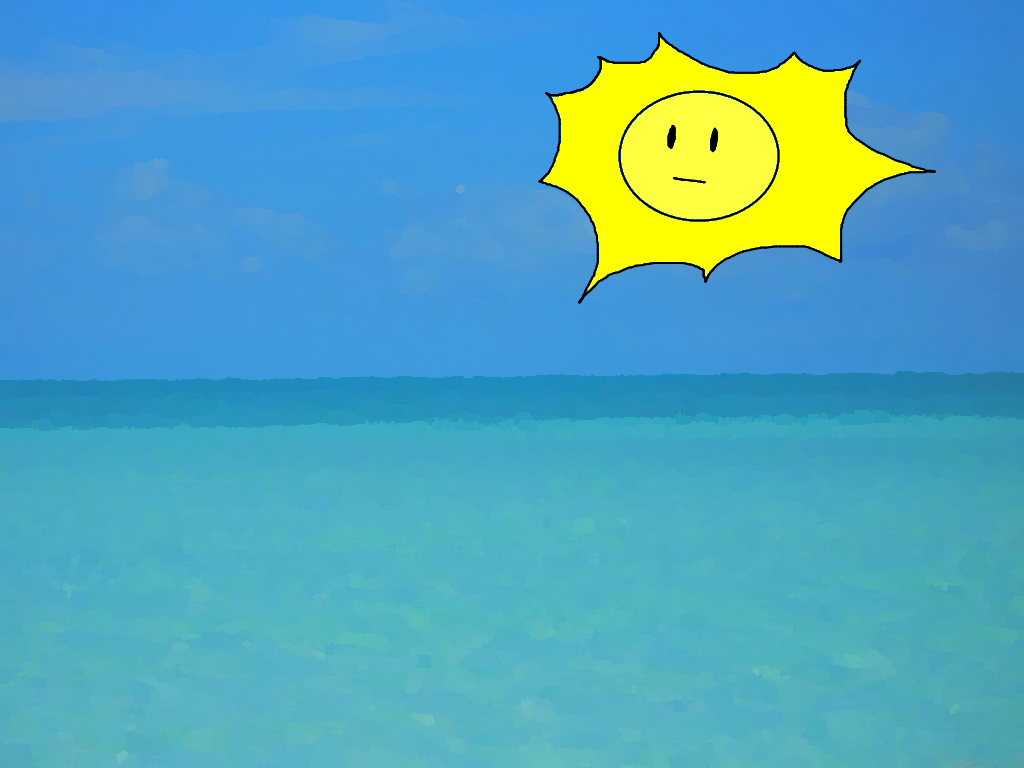
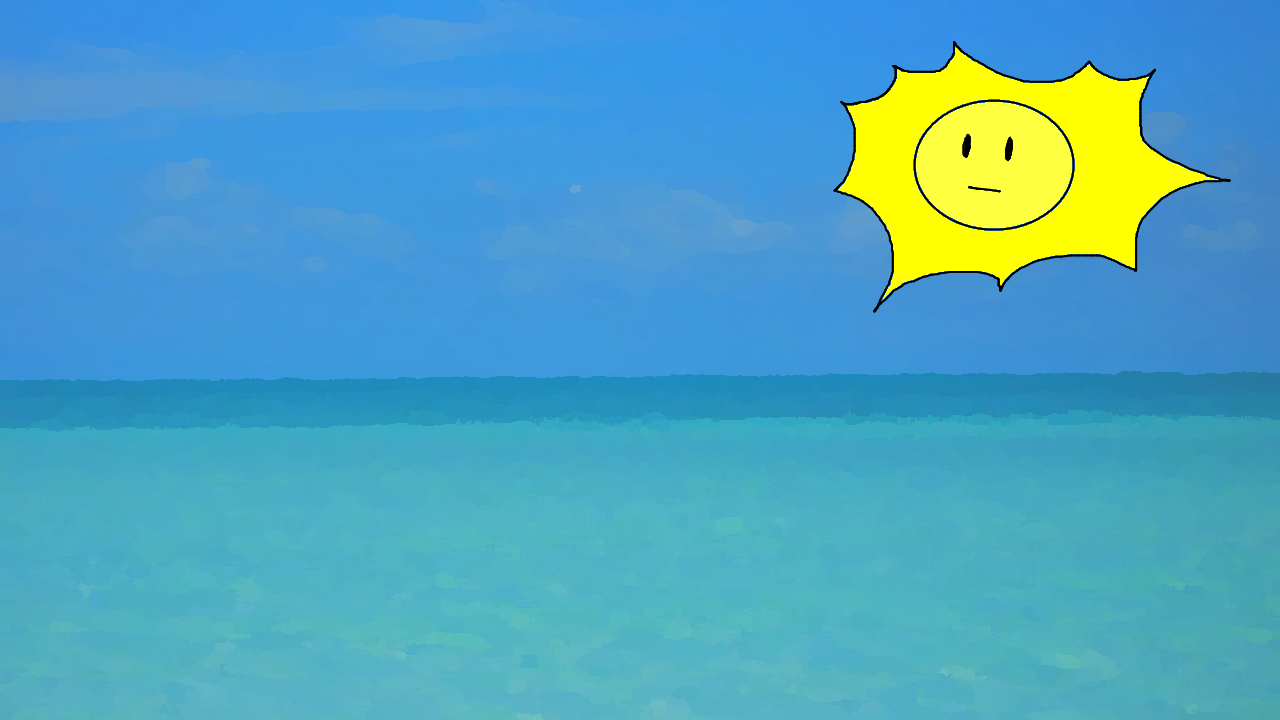
Tweaka guns, revamped graphics to be 1280x720

Changed region(s): [[0.5312, 0.0306, 0.9688, 0.4278], [0.0, 0.4583, 1.0, 0.6111], [0.4375, 0.2444, 0.4688, 0.275]]

diff --git a/Tanks/src/blueMaggot/maps/cityScape.java b/Tanks/src/blueMaggot/maps/cityScape.java
@@ -41,8 +41,6 @@ public class cityScape extends BasicLevel {
 
 		SoundEffect.SPAWN.play();
 
-		addEntity(new BubbleHearth(bubbleSpawns.get(1), this));
-		addEntity(new Package(bubbleSpawns.get(2), this));
 
 	}
 	
@@ -69,6 +67,14 @@ public class cityScape extends BasicLevel {
 		this.addEntity(new ScoreBubble(bubbleSpawns.get(rand.nextInt(bubbleSpawns.size())), this, 0.5, rand.nextInt(360), 100));
 		SoundEffect.SPAWN.play();
 	}
+	public void spawnBubbleHearth() {
+		this.addEntity(new BubbleHearth(bubbleSpawns.get(rand.nextInt(bubbleSpawns.size())), this));
+		SoundEffect.SPAWN.play();
+	}
+	public void spawnCrate() {
+		this.addEntity(new Package(bubbleSpawns.get(rand.nextInt(bubbleSpawns.size())), this));
+		SoundEffect.SPAWN.play();
+	}
 
 	@Override
 	public void tick(double dt) {
@@ -76,17 +82,25 @@ public class cityScape extends BasicLevel {
 		if (shouldSpawnBubble()) {
 			spawnBubble();
 		}
+		if (shouldSpawnCrate()) {
+			spawnCrate();
+		}
+		if (shouldSpawnBubbleHearth()) {
+			spawnBubbleHearth();
+		}
 	}
 
 	protected boolean shouldSpawnBubble() {
-		int ticket = rand.nextInt(200);
+		int ticket = rand.nextInt(300);
 		return ticket == 5;
 	}
 	protected boolean shouldSpawnCrate() {
-		return true;
+		int ticket = rand.nextInt(500);
+		return ticket == 10;
 	}
 	protected boolean shouldSpawnBubbleHearth() {
-		return true;
+		int ticket = rand.nextInt(800);
+		return ticket == 100;
 	}
 	public void onDraw(Renderer renderer) {
 		// draws backgorund recursively

diff --git a/Tanks/src/blueMaggot/Game.java b/Tanks/src/blueMaggot/Game.java
@@ -22,8 +22,8 @@ import blueMaggot.maps.cityScape;
 
 public class Game extends BaseGame implements ConnectionDelegate {
 
-	public static int WIDTH = 1024;
-	public static int HEIGHT = 768;
+	public static int WIDTH = 1280;
+	public static int HEIGHT = 720;
 	public static Dimension DIMENSION = new Dimension(WIDTH, HEIGHT);
 	public boolean didTick = false;
 	public static int ALPHA_MASK = -1;
@@ -44,11 +44,11 @@ public class Game extends BaseGame implements ConnectionDelegate {
 
 	// customizable player variables!
 	public String hostIp;
-	public String nickPlayerOne = "carl";
+	public String nickPlayerOne = "seaman carl";
 	public String nickPlayerTwo = "biker bob";
 	public boolean isHost = false;
 	public static File SELECTED_LEVEL_TERRAIN = new File("./lvl/Cityscape_terrain.png");
-	public static File SELECTED_LEVEL_BACKGROUND = new File("./lvl/Cityscape_background.png");
+	public static File SELECTED_LEVEL_BACKGROUND = new File("./lvl/Cityscape2_background.png");
 	public static boolean running = false;
 
 	// ui elements

diff --git a/Tanks/src/entity/weapon/Minigun.java b/Tanks/src/entity/weapon/Minigun.java
@@ -15,7 +15,7 @@ public class Minigun implements Weapon{
 	int bulletsFired = 0;
 	double currentCooldown = 0;
 	double cooldownTime = 120;
-	int ammo = 5;
+	int ammo = 0;
 	Tank owner;
 	BasicLevel level;
 	Random rand = new Random();
@@ -27,6 +27,7 @@ public class Minigun implements Weapon{
 	public void fire(double x, double y, BasicLevel level, double speedPercent, double angle) {
 		this.level = level; 
 		if (currentCooldown <= 0 && ammo > 0) {
+			ammo--;
 			firing = true;
 			bulletsFired = 0;
 			currentCooldown = cooldownTime;
@@ -50,7 +51,7 @@ public class Minigun implements Weapon{
 	
 	public void fireEvent(){
 		level.addEntity(new Bullet(owner.getCrosshairLocation().getX(), owner.getCrosshairLocation().getY(), level, owner.getMuzzleAngle() + 3 * rand.nextDouble() - 3*rand.nextDouble()));
-		SoundEffect.EXPLOSION1.play();
+//		SoundEffect.EXPLOSION1.play();
 	}
 
 	@Override

diff --git a/Tanks/src/entity/weapon/Rocketlauncher.java b/Tanks/src/entity/weapon/Rocketlauncher.java
@@ -6,9 +6,9 @@ import level.BasicLevel;
 
 public class Rocketlauncher implements Weapon {
 
-	int cooldownTime = 240;
+	int cooldownTime = 120;
 	int currentCooldown = 0;
-	private int ammo = 3;
+	private int ammo = 4;
 
 	@Override
 	public void fire(double x, double y, BasicLevel level, double speedPercent, double angle) {
@@ -22,7 +22,7 @@ public class Rocketlauncher implements Weapon {
 
 	@Override
 	public void setAmmo() {
-		ammo += 3;
+		ammo += 4;
 	}
 
 	@Override
@@ -32,7 +32,7 @@ public class Rocketlauncher implements Weapon {
 
 	@Override
 	public void addAmmo() {
-		ammo += 3;
+		ammo += 4;
 	}
 
 	@Override

diff --git a/Tanks/src/entity/Tank.java b/Tanks/src/entity/Tank.java
@@ -151,7 +151,6 @@ public class Tank extends Entity {
 	}
 
 	public int getScore() {
-		System.out.println("Score: " + score);
 		return score;
 	}
 
@@ -318,6 +317,7 @@ public class Tank extends Entity {
 
 	@Override
 	public void remove() {
+		score -= 100;
 		if (--life == 0) {
 			super.remove();
 			return;

diff --git a/Tanks/src/entity/weapon/Airstrike.java b/Tanks/src/entity/weapon/Airstrike.java
@@ -6,7 +6,7 @@ import level.BasicLevel;
 
 public class Airstrike implements Weapon{
 	
-	int ammo = 5;
+	int ammo = 0;
 	int cooldownTime = 30;
 	int currentCooldown = 0;
 	
@@ -23,7 +23,7 @@ public class Airstrike implements Weapon{
 	
 	@Override
 	public void addAmmo() {
-		ammo += 1;
+		ammo += 3;
 		
 	}
 	

diff --git a/Tanks/src/entity/weapon/MineLauncher.java b/Tanks/src/entity/weapon/MineLauncher.java
@@ -5,7 +5,7 @@ import level.BasicLevel;
 
 public class MineLauncher implements Weapon {
 
-	private int ammo = 2;
+	private int ammo = 0;
 	private double currentCooldown = 0;
 	private int cooldownTime = 40;
 
